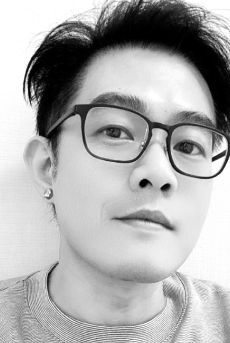
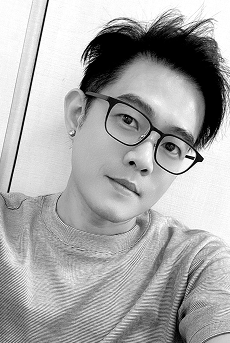
update image

diff --git a/about.html b/about.html
@@ -184,8 +184,8 @@
                                 <a href="javascript:;" class="img"> <img class="img-expert" src="./images/expert-6.jpg" alt="">
                                     <div class="overlay"></div></a> 
                                 <div class="info">
-                                    <h1>Nicholas Tan</h1>
-                                    <span>Communications and Marketing Director</span>
+                                    <h1>Jason Koh</h1>
+                                    <span>Senior Operations Manager</span>
                                 </div>
                             </div>
                         </div>
